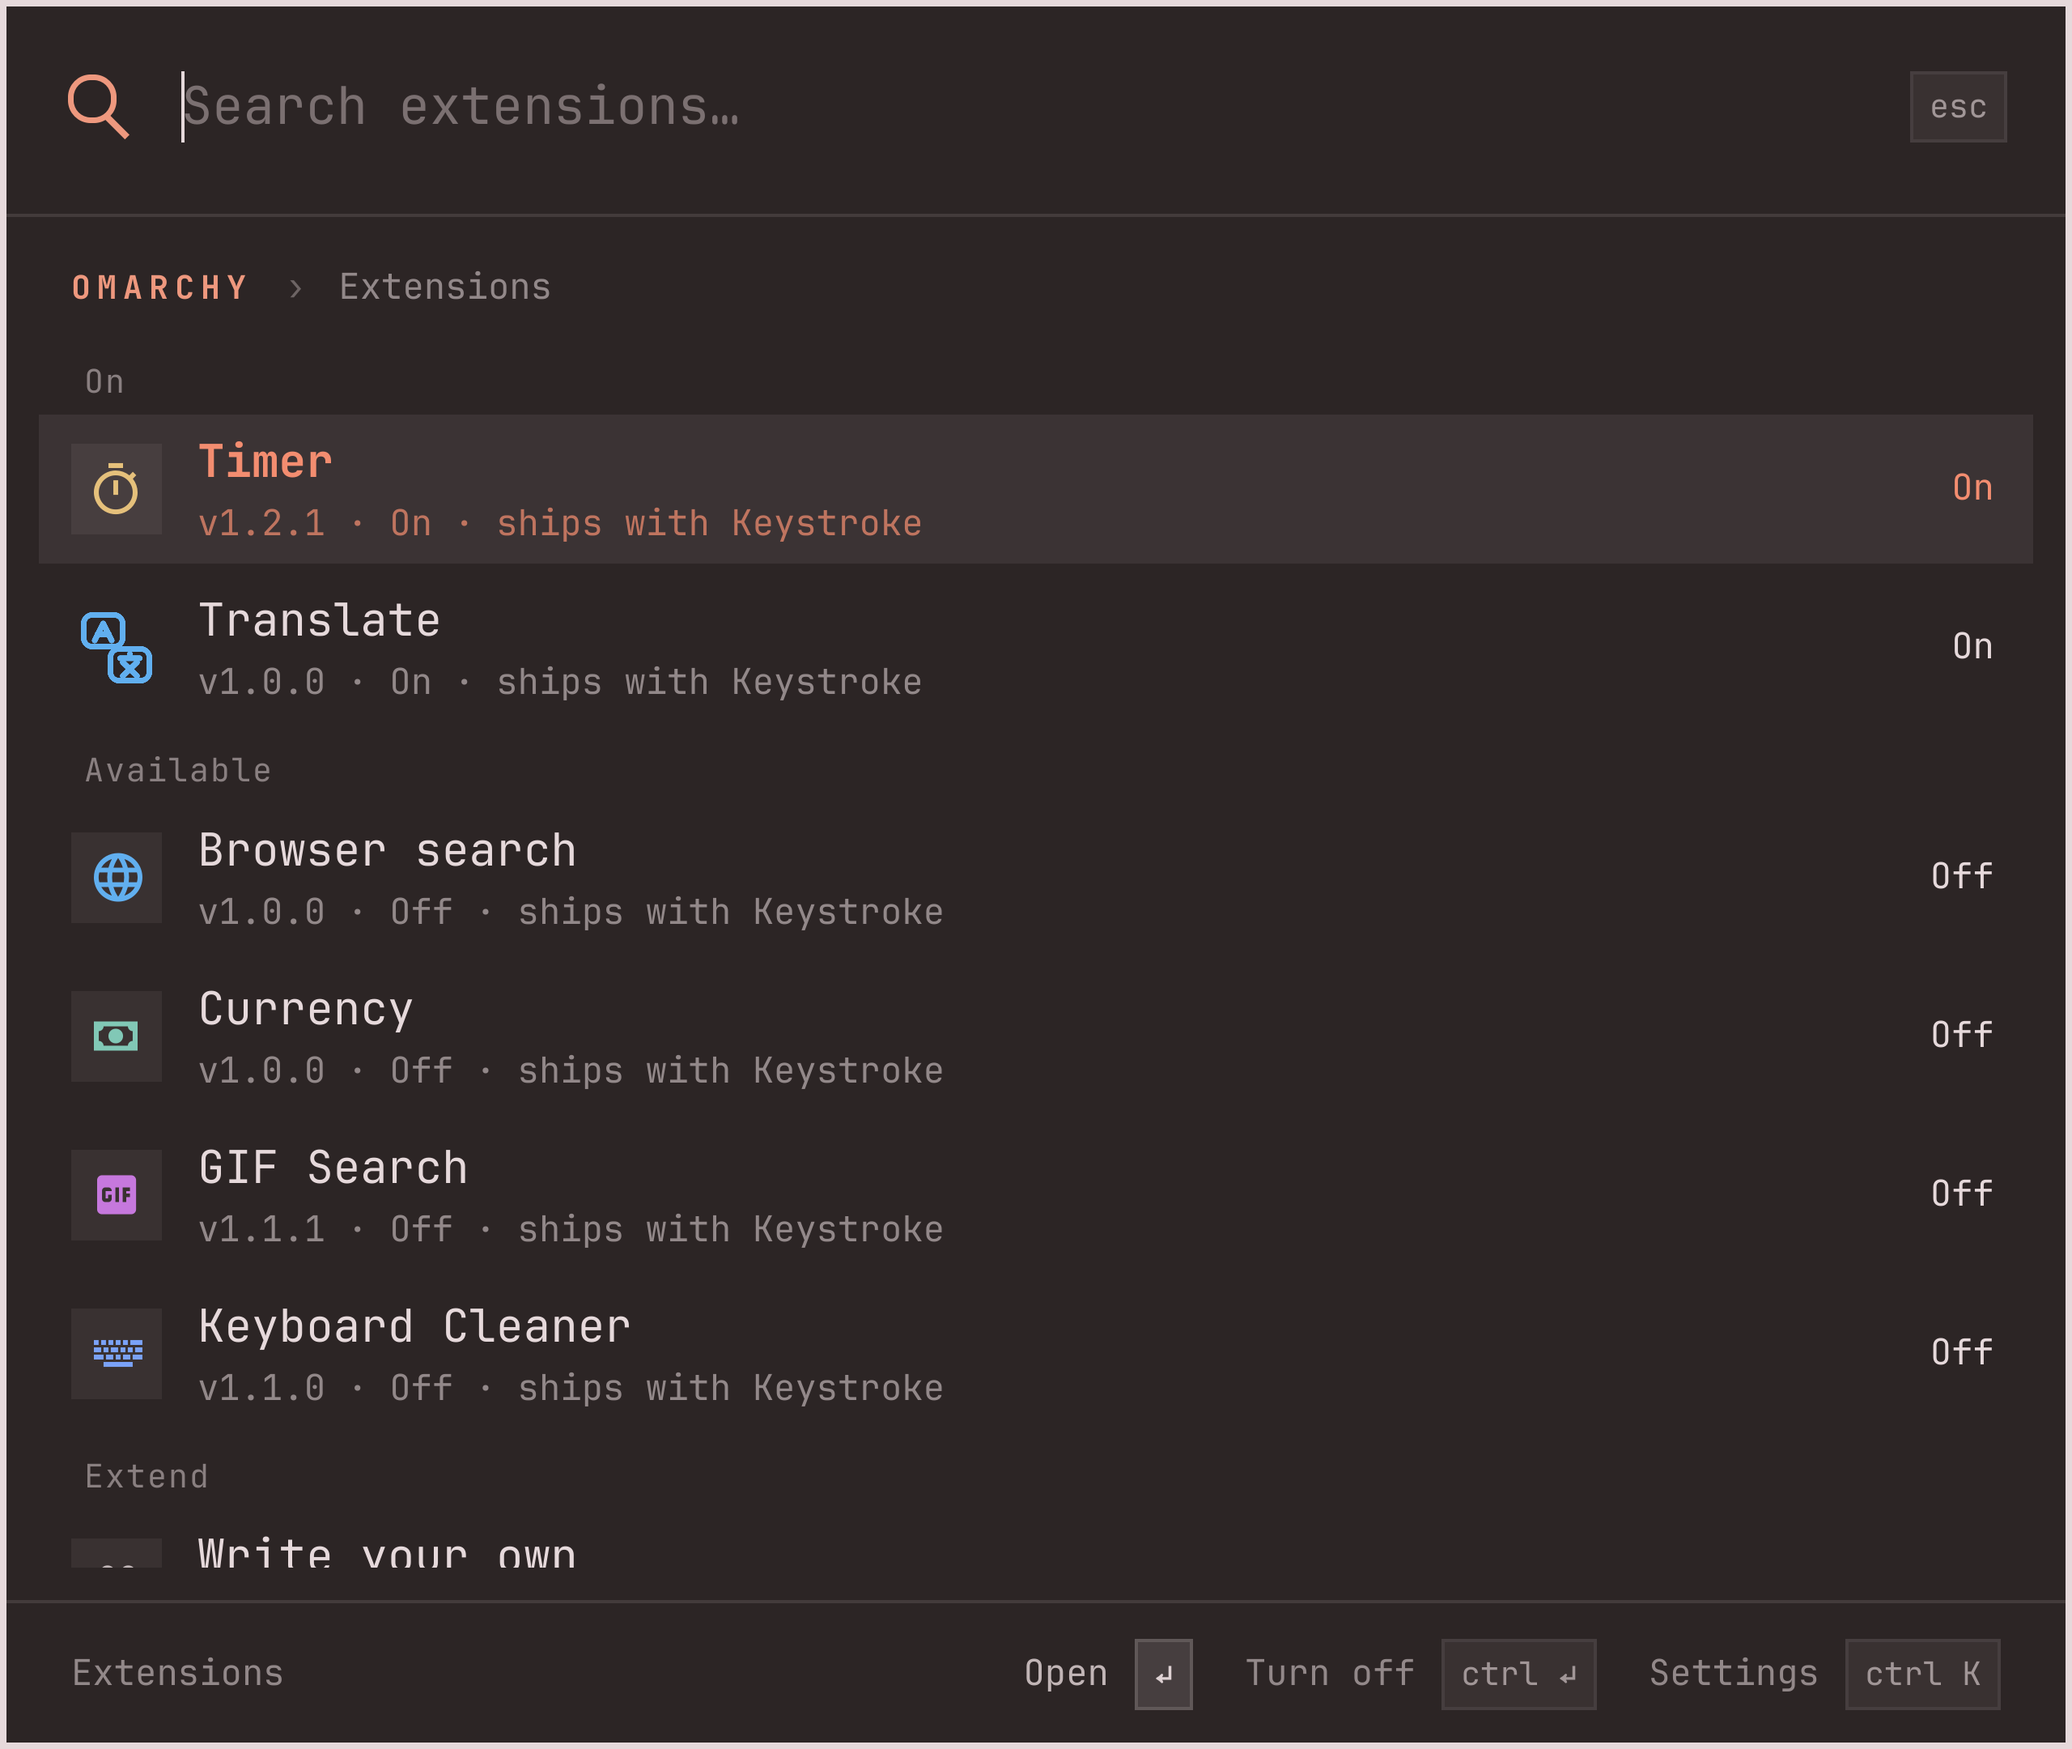
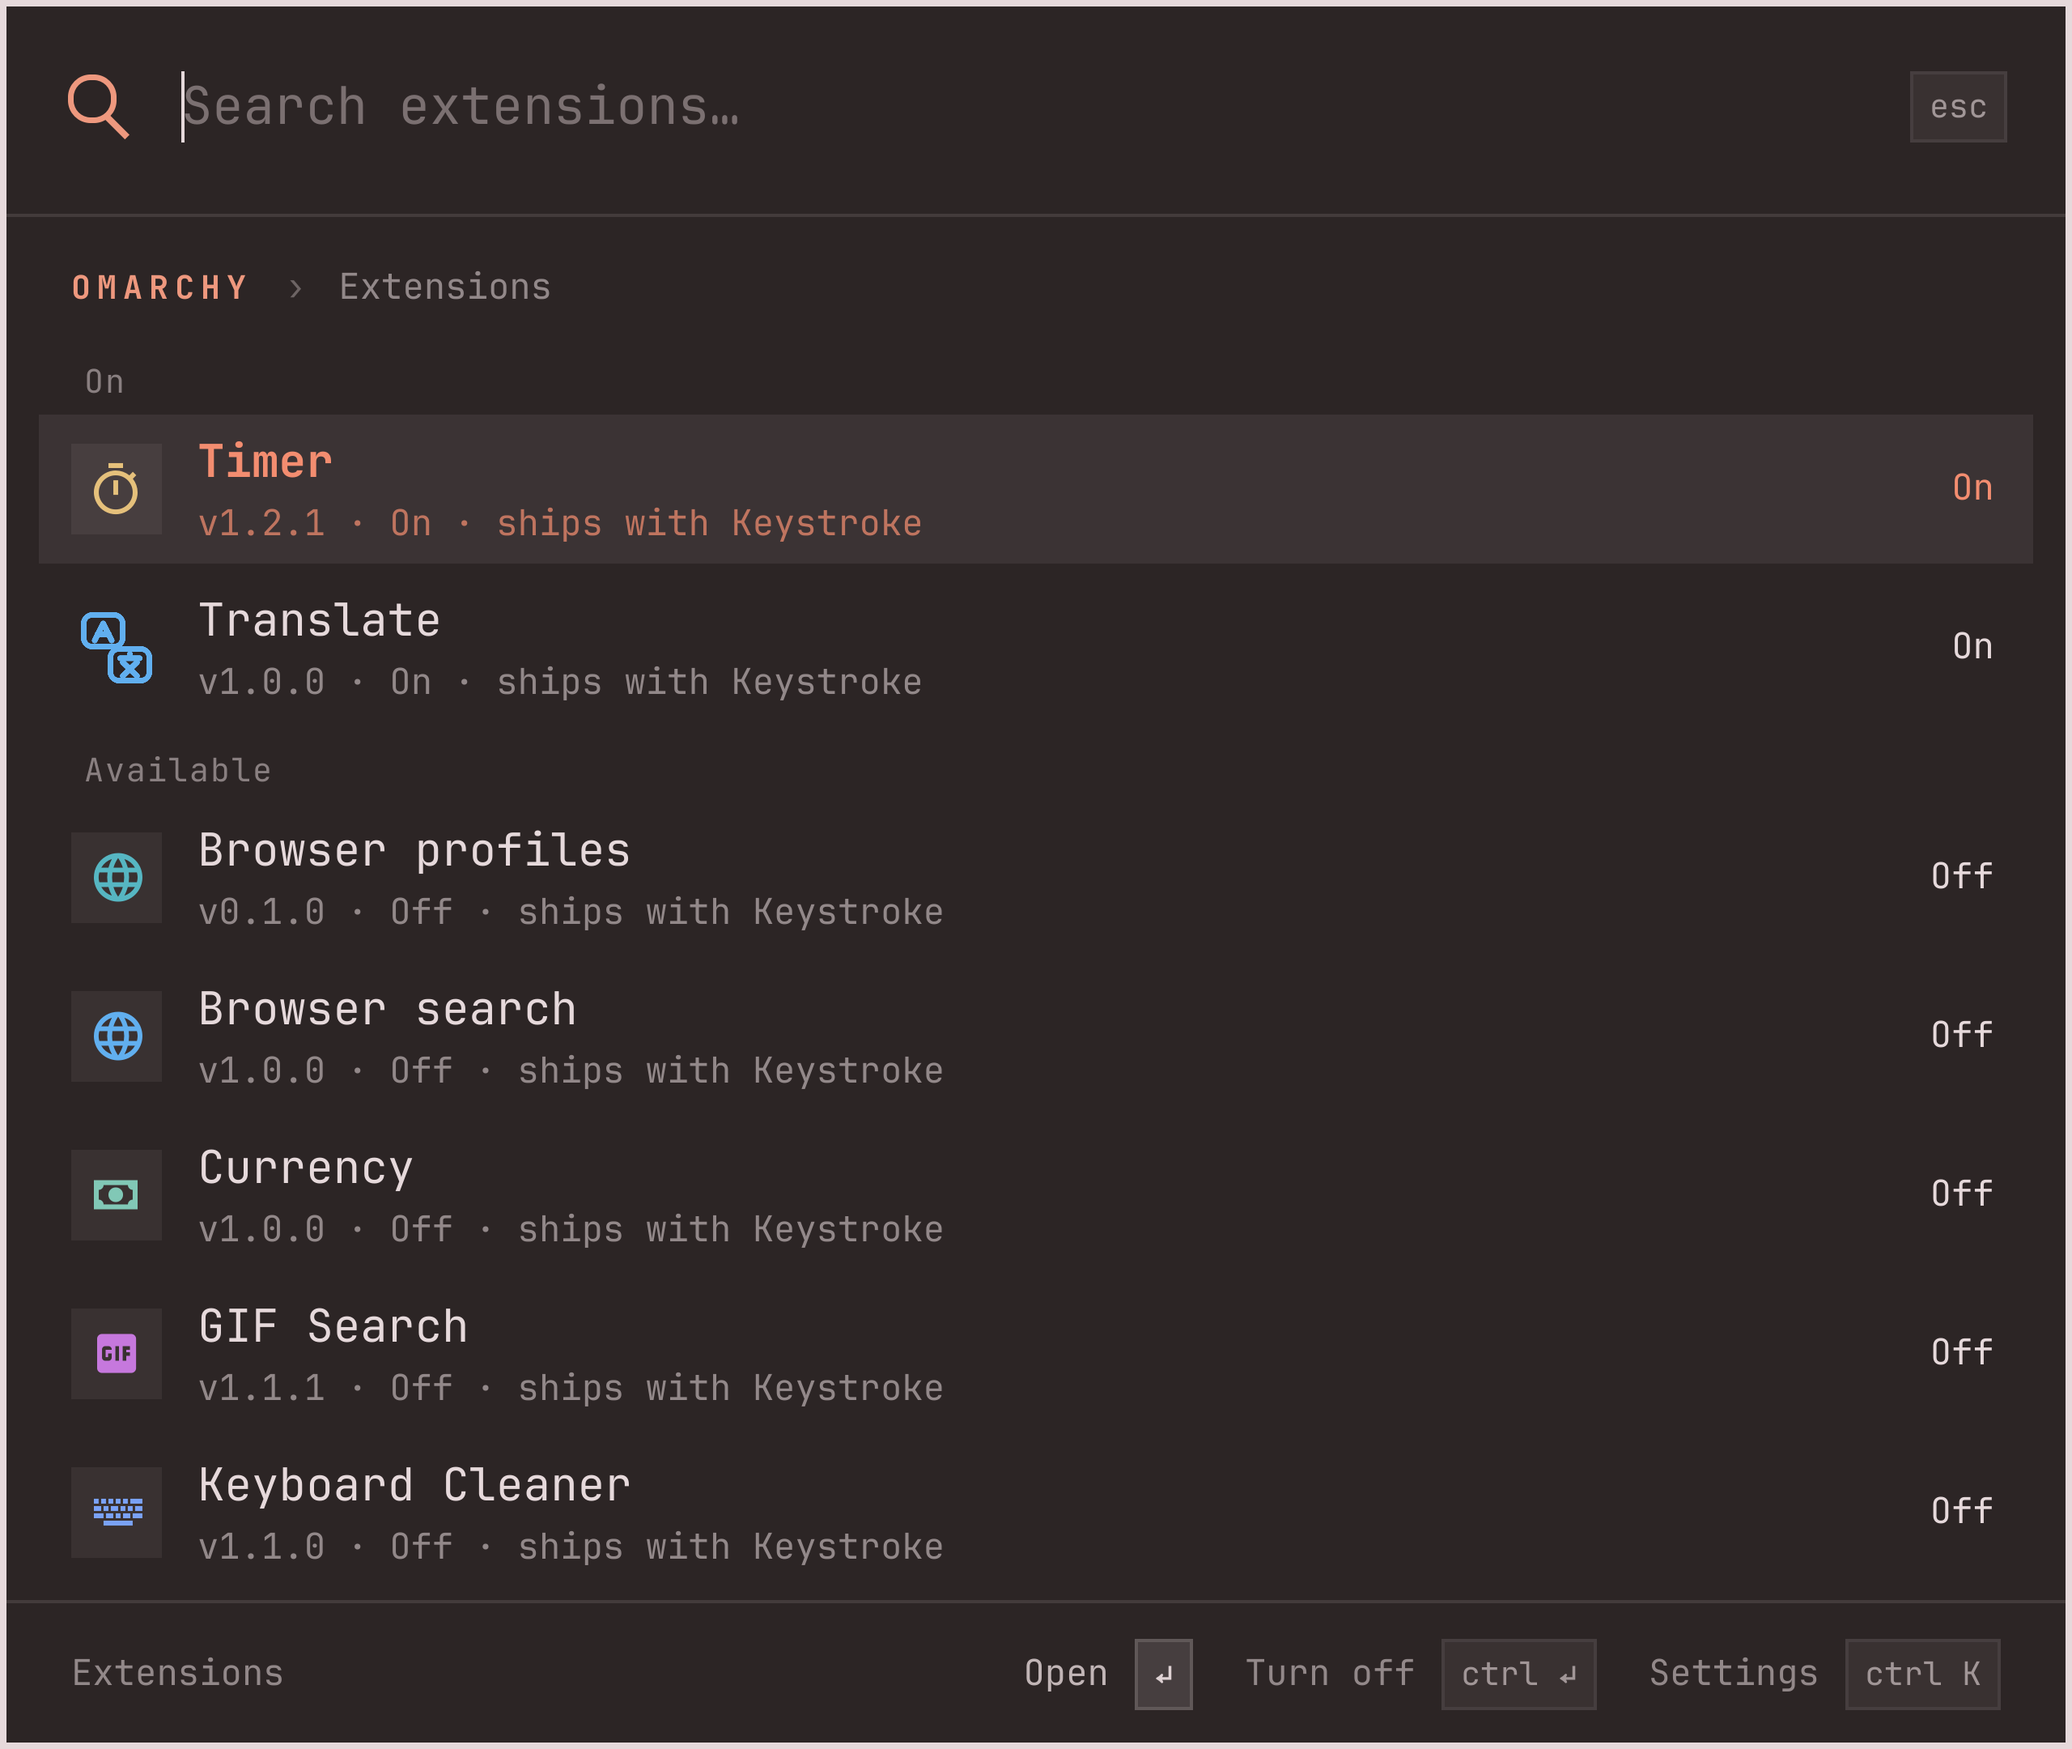
Prepare Keystroke 1.5.0 release

diff --git a/docs/releases/v1.5.0.md b/docs/releases/v1.5.0.md
@@ -1,0 +1,68 @@
+# Keystroke 1.5.0
+
+Released September 29, 2026.
+
+A contributors' release. Two new extensions open a browser profile and
+reopen a recent editor project. Clipboard history can paste straight into
+the window you came from, and Cursor joins the assistants under *Continue
+with*. Thanks to Thomas Torggler, Pablo Pineda and Jordi López, who wrote
+them.
+
+## New
+
+- **Browser profiles** (extension, by Thomas Torggler). `profile work`, or
+  just the profile's name at the root, opens a new window in that profile of
+  Chromium, Chrome, Brave, Vivaldi, Edge, Firefox, Firefox ESR, LibreWolf or
+  Zen, native or Flatpak. `Ctrl+↵` opens a private window (Incognito,
+  InPrivate or a private window) instead. Profiles are listed under the
+  names the browser's own profile menu uses. Only `Local State` and
+  `profiles.ini` are read, once per palette open. Off until you turn it on.
+- **Recent projects** (extension, by Thomas Torggler). `proj keystroke`, or
+  the project's name at the root, reopens a folder, workspace or remote
+  (SSH, WSL, dev container) that VS Code, Code - OSS, VSCodium, Cursor or
+  Windsurf opened recently, in the editor it was recent in. `Ctrl+↵` opens a
+  terminal in its folder. The editors' recent list is read from their
+  `state.vscdb`, read-only, once per palette open. Recent single files are
+  an opt-in setting. Off until you turn it on.
+- **Paste from clipboard history** (by Pablo Pineda). In Clipboard History,
+  `↵` still copies an entry and `Ctrl+↵` now pastes it into the window you
+  came from, text or image. Settings → Clipboard History → **Paste on
+  selection** swaps the two keys. Pasting sends `Ctrl+Shift+V` to a
+  terminal (Omarchy's `terminal` tag, or a desktop entry in the
+  TerminalEmulator category) and `Ctrl+V` anywhere else. **Paste shortcut**
+  can force `Shift+Insert`. Dictation's paste is unchanged.
+- **Cursor under *Continue with*** (by Jordi López). With Cursor installed,
+  **Ask Cursor** opens the Cursor composer with your prompt through
+  `cursor --open-url`, and in CLI mode **Ask Cursor Agent** runs Cursor's
+  `agent` in a terminal with the prompt as a literal argument. Settings → AI
+  & Web Search can make Cursor the preferred assistant, and **Cursor
+  workspace folder** passes `--workspace`.
+
+## Improvements
+
+- **A one-word flag is never an option.** A query that is exactly `-p` or
+  `--yolo` reaches `claude`, `codex` and `agent` as text, not as a flag.
+- **Provider contract.** Rows may return `{type:"paste", text}` or
+  `{type:"paste", mime, path}`: the host copies, closes the palette and
+  pastes with the key the focused window expects. See
+  [docs/providers.md](../providers.md).
+
+## Update
+
+```sh
+omarchy plugin update evindor.keystroke
+omarchy restart shell
+```
+
+Requires Omarchy 4.0.2 or later. Everything in the
+[1.4.0 notes](v1.4.0.md) applies unchanged. The bundled matching engine is
+byte for byte the one verified in 1.4.2. Both new extensions need only
+Python 3's standard library. Paste uses `wtype`, `wl-copy`, `hyprctl` and
+`jq`, which Omarchy already ships.
+
+Validation: the QML suite (270 tests), the extension checks for all eight
+extensions, the clipboard, transfer, matching, palette and hotkey checks,
+qmllint and plugin validation pass. See the
+[verification record](../verification.md).
+
+[Full changes](https://github.com/evindor/keystroke/compare/v1.4.4...v1.5.0)

diff --git a/README.md b/README.md
@@ -6,7 +6,7 @@ A Raycast-style command palette that **replaces the Omarchy menu**. One native O
 
 **[Explore the feature showcase and installation guide →](https://evindor.github.io/keystroke/)** · **[Read the usage guide: every feature, with a screenshot and one thing to try →](https://evindor.github.io/keystroke/guide/)**
 
-[Release notes: 1.4.4](docs/releases/v1.4.4.md) — a quieter results list: the keys for the selection live in the footer, the preview pane opens only when it has something to show, and confirmations rise from the bottom of the card. [1.4.3](docs/releases/v1.4.3.md): a web address typed into the palette opens in your browser; Browser search and GIF Search join the box; Keyboard Cleaner keeps a wipe from opening the power menu. [1.4.2](docs/releases/v1.4.2.md): the matching engine is rebuilt byte for byte and attested in CI; Currency and Keyboard Cleaner. [1.4.1](docs/releases/v1.4.1.md): the usage guide reads like a manual. [1.4.0](docs/releases/v1.4.0.md): extensions ship inside Keystroke, off until you turn them on, with Timer (now ringing and counting down in the bar) and Translate in the box; every typed command explains itself; a usage guide, reachable from Settings → Learn Keystroke. Earlier: [1.3.0](docs/releases/v1.3.0.md), [1.2.1](docs/releases/v1.2.1.md), [1.2.0](docs/releases/v1.2.0.md).
+[Release notes: 1.5.0](docs/releases/v1.5.0.md) — Browser profiles and Recent projects join the box, `Ctrl+↵` pastes from clipboard history, and Cursor joins the assistants; all four contributed. [1.4.4](docs/releases/v1.4.4.md): a quieter results list: the keys for the selection live in the footer, the preview pane opens only when it has something to show, and confirmations rise from the bottom of the card. [1.4.3](docs/releases/v1.4.3.md): a web address typed into the palette opens in your browser; Browser search and GIF Search join the box; Keyboard Cleaner keeps a wipe from opening the power menu. [1.4.2](docs/releases/v1.4.2.md): the matching engine is rebuilt byte for byte and attested in CI; Currency and Keyboard Cleaner. [1.4.1](docs/releases/v1.4.1.md): the usage guide reads like a manual. [1.4.0](docs/releases/v1.4.0.md): extensions ship inside Keystroke, off until you turn them on, with Timer (now ringing and counting down in the bar) and Translate in the box; every typed command explains itself; a usage guide, reachable from Settings → Learn Keystroke. Earlier: [1.3.0](docs/releases/v1.3.0.md), [1.2.1](docs/releases/v1.2.1.md), [1.2.0](docs/releases/v1.2.0.md).
 
 Screenshots show the real Omarchy interface with public demo data, rendered offscreen from the real palette by `tools/showcase/offscreen.py`.
 

diff --git a/docs/verification.md b/docs/verification.md
@@ -1,5 +1,32 @@
 > Historical checkpoints below include retired local-model and forked-Voxtype implementations. Current build: [Codex integration verification](codex-integration-verification.md).
 
+## Release 1.5.0 (2026-09-29)
+
+- Contents since 1.4.4, all merged from contributor PRs on 2026-09-29: the
+  Browser profiles extension (#17, `extensions/browser-profiles`), the Recent
+  projects extension (#18, `extensions/recent-projects`), paste from
+  clipboard history (#16: `providers/Clipboard.qml`, `bin/keystroke-paste`,
+  the `paste` effect in `Keystroke.qml`, a per-transfer paste command in
+  `voice/ClipboardTransfer.qml`) and the Cursor hand-off (#15:
+  `core/AiTargets.js`, `providers/AiWeb.qml`). README, guide,
+  `docs/providers.md`, and the clipboard and extensions screenshots
+  re-rendered with `tools/showcase/offscreen.py`. `manifest.json` 1.4.4 →
+  1.5.0. Nothing under `matching/` changed since the verified 1.4.2 commit
+  (engine SHA-256 `192ef1ec…`).
+- `bin/keystroke test` on `6252869`: 270 QML tests passed, 0 failed; every
+  check up to and including the clipboard provider, paste shortcut,
+  transfer and Codex session checks passed, then
+  `tests/palette_dictation_check.py` hit its known timeout (passed alone on
+  the third try). The remaining checks run one by one: tz helper, palette
+  extensions, currency, commands and URL checks, `tools/check_extensions.py`
+  (eight extensions), hotkeys, both new extensions' palette checks. All
+  passed. `tests/lint.sh` exit 0; `omarchy plugin validate` exit 0;
+  `python3 site/check.py` passes (35 screenshots).
+- Not exercised on this machine: a real paste into applications, the
+  Firefox-family profile launch, Recent projects against a VS Code-family
+  editor with history (none installed here), and Cursor's `workspace=`
+  deeplink parameter (undocumented by Cursor; harmless if ignored).
+
 ## Cursor Agent hand-off (2026-09-19)
 
 - AI & Web Search detects `cursor` and `agent` on PATH. Desktop mode opens
